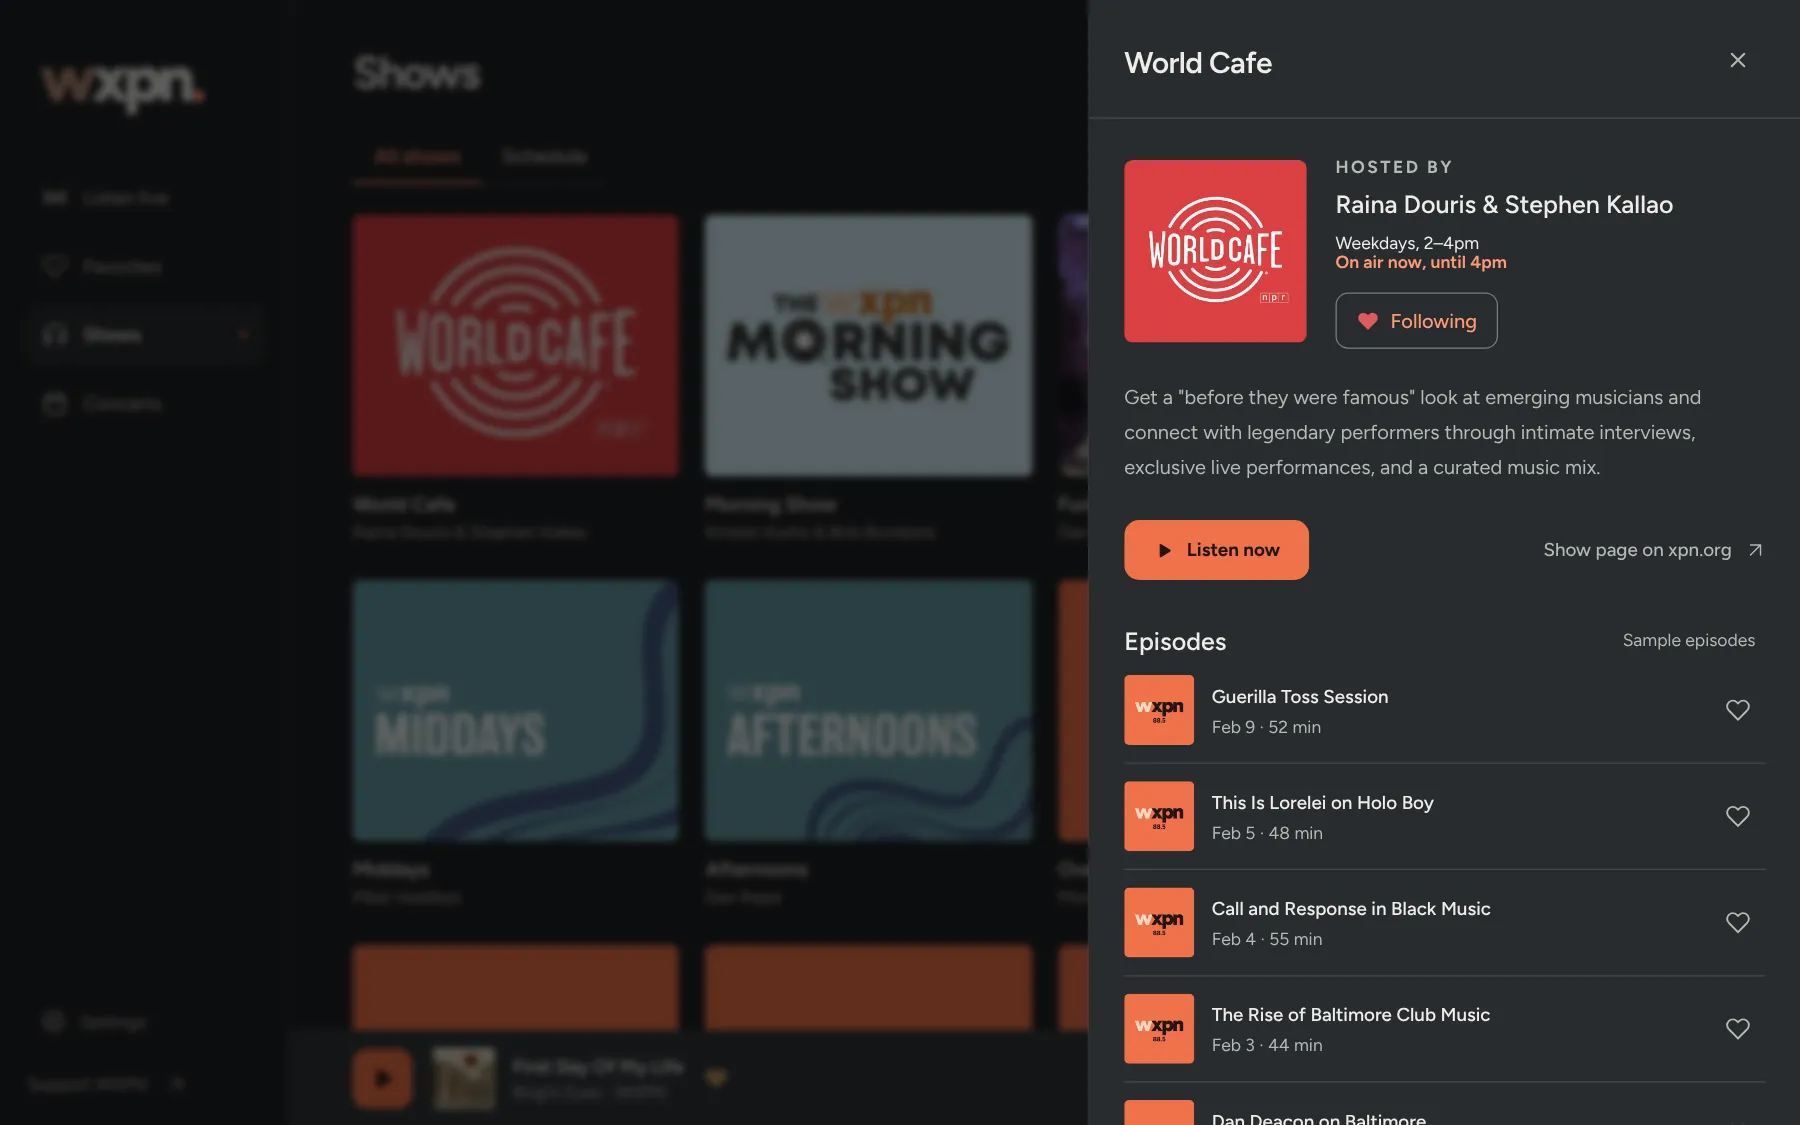
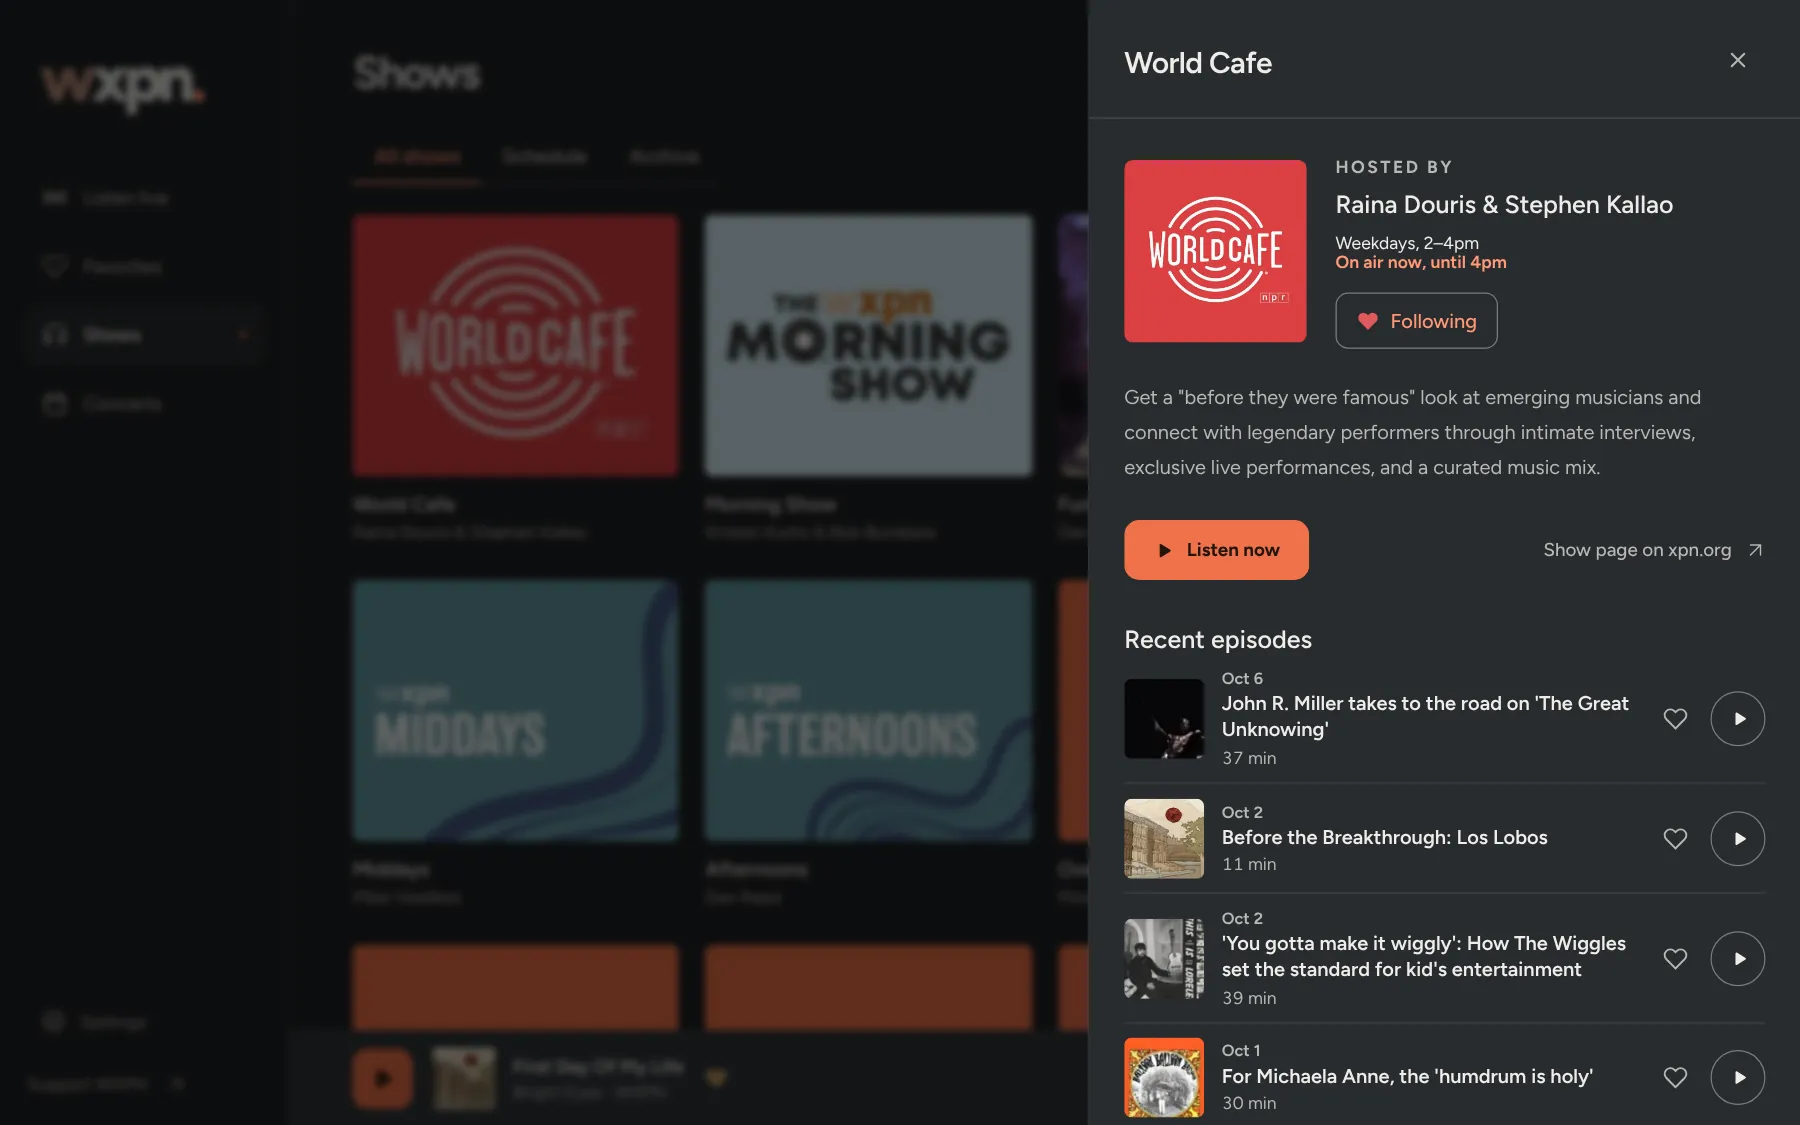
Screens page: archive, episode, newsletter and concert alerts
Adds the Archive tab, an episode, an episode in the mini player, the
Newsletter panel and the concert-alerts prompt to the phone screens, the
archive with an episode playing to the laptop screens, and re-shoots the
World Cafe sheet now that it lists playable episodes.

Claude-Session: https://claude.ai/code/session_017ZBBHEgcGx725L57MVedbA

diff --git a/design/screens/index.html b/design/screens/index.html
@@ -495,10 +495,52 @@
                 width="390"
                 height="844"
                 loading="lazy"
-                alt="World Cafe details: hosts, air times, Following, Listen now, and episodes with a heart each."
+                alt="World Cafe details: hosts, air times, Following, Listen now, and its recent episodes, each with a heart and a play key."
               />
             </div>
             <div class="caption"><h3>Show details</h3></div>
+          </li>
+          <li class="shot">
+            <div class="device">
+              <img
+                data-shot="phone-archive"
+                width="390"
+                height="844"
+                loading="lazy"
+                alt="Shows, Archive tab: recent World Cafe episodes grouped Today and This week, each with its length, a heart and a round play key."
+              />
+            </div>
+            <div class="caption">
+              <h3>Archive</h3>
+              <p>Recent episodes from the shows’ podcasts, to play here.</p>
+            </div>
+          </li>
+          <li class="shot">
+            <div class="device">
+              <img
+                data-shot="phone-episode"
+                width="390"
+                height="844"
+                loading="lazy"
+                alt="An episode in World Cafe’s sheet: its date and length, title, Pause and Save, a scrubber with back 15 and ahead 30, and its description."
+              />
+            </div>
+            <div class="caption">
+              <h3>Episode</h3>
+              <p>Plays in the app and keeps your place.</p>
+            </div>
+          </li>
+          <li class="shot">
+            <div class="device">
+              <img
+                data-shot="phone-episode-bar"
+                width="390"
+                height="844"
+                loading="lazy"
+                alt="The Archive tab with an episode under way: its row shows the time left, and the mini player shows it with an Archive tag, a progress line and a close key."
+              />
+            </div>
+            <div class="caption"><h3>Episode in the mini player</h3></div>
           </li>
           <li class="shot">
             <div class="device">
@@ -581,6 +623,18 @@
           <li class="shot">
             <div class="device">
               <img
+                data-shot="phone-concerts-end"
+                width="390"
+                height="844"
+                loading="lazy"
+                alt="The end of the concert list, with an invitation to weekly concert alerts by email."
+              />
+            </div>
+            <div class="caption"><h3>Concert alerts</h3></div>
+          </li>
+          <li class="shot">
+            <div class="device">
+              <img
                 data-shot="phone-livebanner"
                 width="390"
                 height="844"
@@ -613,6 +667,21 @@
               />
             </div>
             <div class="caption"><h3>Reminder settings</h3></div>
+          </li>
+          <li class="shot">
+            <div class="device">
+              <img
+                data-shot="phone-newsletter"
+                width="390"
+                height="844"
+                loading="lazy"
+                alt="Settings, Newsletter: what WXPN’s weekly e-news carries, a Sign up for the e-news button, and the Top Stories playlist offer."
+              />
+            </div>
+            <div class="caption">
+              <h3>Newsletter</h3>
+              <p>Signs up on xpn.org’s own form.</p>
+            </div>
           </li>
           <li class="shot">
             <div class="device">
@@ -771,6 +840,18 @@
               loading="lazy"
             />
           </figure>
+          <figure class="window" style="margin: 0">
+            <div class="window-bar" aria-hidden="true">
+              <i></i><i></i><i></i><span>WXPN / Shows / Archive</span>
+            </div>
+            <img
+              data-shot="desk-archive"
+              width="1440"
+              height="900"
+              alt="The archive on a laptop, an episode playing: the player bar shows play, the episode, a scrubber with back 15 and ahead 30, volume and close."
+              loading="lazy"
+            />
+          </figure>
         </div>
       </section>
     </div>
@@ -841,6 +922,18 @@
         "lock-android-player-dark": "img/lock-android-player-dark.webp",
         "lock-android-alarm-light": "img/lock-android-alarm-light.webp",
         "lock-android-alarm-dark": "img/lock-android-alarm-dark.webp",
+        "phone-archive-light": "img/phone-archive-light.webp",
+        "phone-archive-dark": "img/phone-archive-dark.webp",
+        "phone-episode-light": "img/phone-episode-light.webp",
+        "phone-episode-dark": "img/phone-episode-dark.webp",
+        "phone-episode-bar-light": "img/phone-episode-bar-light.webp",
+        "phone-episode-bar-dark": "img/phone-episode-bar-dark.webp",
+        "phone-newsletter-light": "img/phone-newsletter-light.webp",
+        "phone-newsletter-dark": "img/phone-newsletter-dark.webp",
+        "phone-concerts-end-light": "img/phone-concerts-end-light.webp",
+        "phone-concerts-end-dark": "img/phone-concerts-end-dark.webp",
+        "desk-archive-light": "img/desk-archive-light.webp",
+        "desk-archive-dark": "img/desk-archive-dark.webp",
       };
       (function () {
         var buttons = document.querySelectorAll("[data-theme-choice]");
